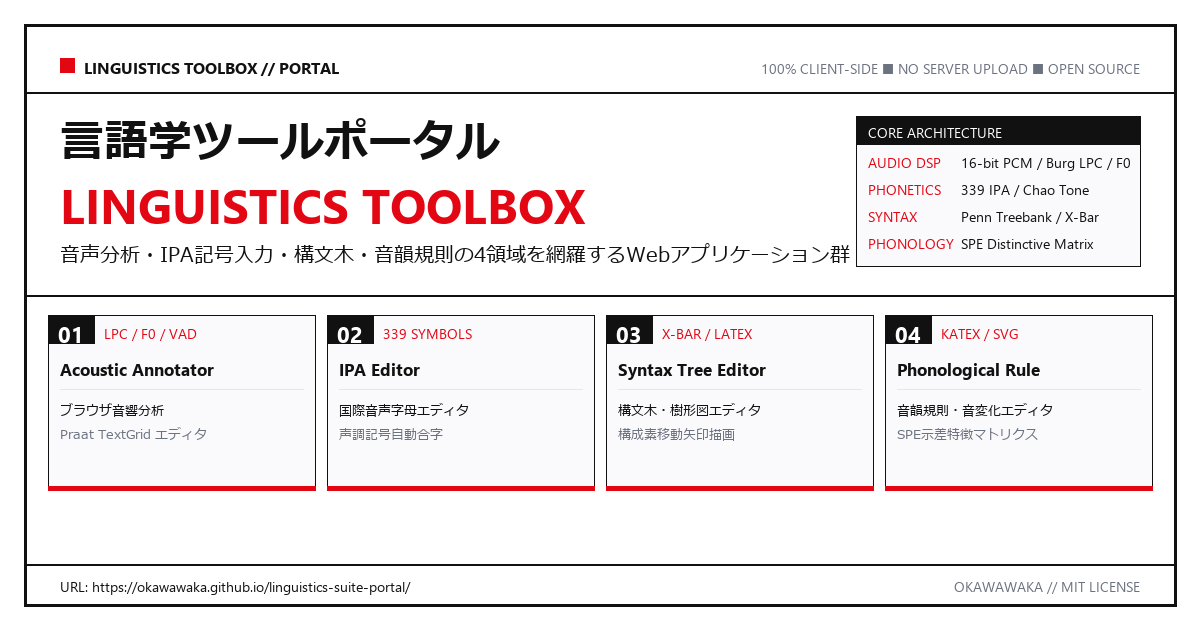
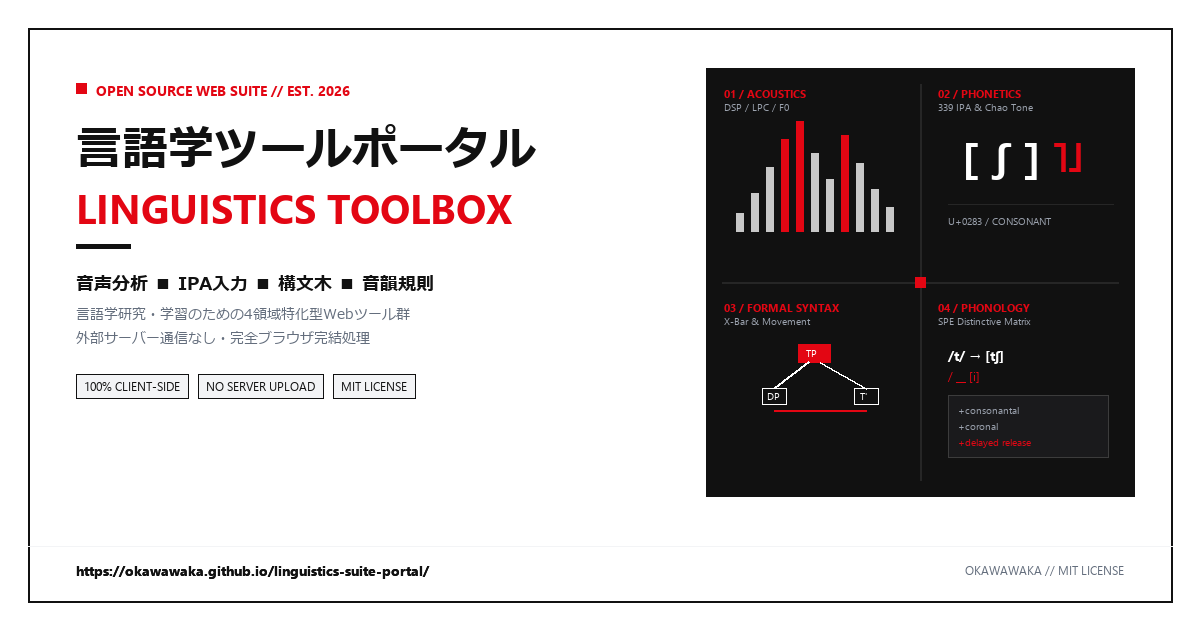
style: refine OGP image layout with golden ratio typography and 4-quadrant emblem

diff --git a/generate_ogp.py b/generate_ogp.py
@@ -1,171 +1,197 @@
 import os
+import math
 from PIL import Image, ImageDraw, ImageFont
 
-# Canvas dimensions
+# ==============================================================================
+# LINGUISTICS TOOLBOX — REFINED OGP POSTER GENERATOR
+# Swiss Typographic Style / Golden Ratio Balance / 1200 x 630 px
+# ==============================================================================
+
 WIDTH = 1200
 HEIGHT = 630
 
-# Colors (Swiss Style Palette)
-BG_COLOR = (255, 255, 255)
-TEXT_PRIMARY = (17, 17, 17)        # #111111
-TEXT_MUTED = (107, 114, 128)       # #6B7280
-SWISS_RED = (227, 6, 19)          # #E30613
-BORDER_DARK = (17, 17, 17)
-BORDER_LIGHT = (229, 231, 235)     # #E5E7EB
-CARD_BG = (250, 250, 252)
+# Color Palette (Strict Swiss International Style)
+COLOR_BG = (255, 255, 255)
+COLOR_TEXT_MAIN = (17, 17, 17)        # #111111
+COLOR_TEXT_MUTED = (100, 110, 125)    # #646E7D
+COLOR_SWISS_RED = (227, 6, 19)        # #E30613
+COLOR_FRAME = (17, 17, 17)
+COLOR_PLATE_BG = (17, 17, 17)         # Dark quadrant plate
+COLOR_PLATE_LINE = (38, 38, 38)       # #262626
+COLOR_PLATE_MUTED = (156, 163, 175)   # #9CA3AF
+COLOR_WHITE = (255, 255, 255)
+COLOR_LIGHT_GRAY = (243, 244, 246)
 
-# Create image
-img = Image.new("RGB", (WIDTH, HEIGHT), BG_COLOR)
+img = Image.new("RGB", (WIDTH, HEIGHT), COLOR_BG)
 draw = ImageDraw.Draw(img)
 
-# Outer Border (Swiss Poster Frame)
-BORDER_MARGIN = 24
-draw.rectangle(
-    [BORDER_MARGIN, BORDER_MARGIN, WIDTH - BORDER_MARGIN, HEIGHT - BORDER_MARGIN],
-    outline=BORDER_DARK,
-    width=3
-)
+# Outer Architectural Border
+MARGIN = 28
+draw.rectangle([MARGIN, MARGIN, WIDTH - MARGIN, HEIGHT - MARGIN], outline=COLOR_FRAME, width=2)
 
-# Load Fonts
+# Load System Fonts
 FONT_DIR = "C:/Windows/Fonts"
-font_title_en = ImageFont.truetype(os.path.join(FONT_DIR, "segoeuib.ttf"), 48)
-font_title_jp = ImageFont.truetype(os.path.join(FONT_DIR, "meiryob.ttc"), 44)
-font_subtitle = ImageFont.truetype(os.path.join(FONT_DIR, "meiryo.ttc"), 20)
-font_mono_bold = ImageFont.truetype(os.path.join(FONT_DIR, "segoeuib.ttf"), 16)
-font_mono_small = ImageFont.truetype(os.path.join(FONT_DIR, "segoeui.ttf"), 14)
-font_card_num = ImageFont.truetype(os.path.join(FONT_DIR, "segoeuib.ttf"), 22)
-font_card_title = ImageFont.truetype(os.path.join(FONT_DIR, "segoeuib.ttf"), 17)
-font_card_desc = ImageFont.truetype(os.path.join(FONT_DIR, "meiryo.ttc"), 13)
+font_jp_title = ImageFont.truetype(os.path.join(FONT_DIR, "meiryob.ttc"), 46)
+font_en_title = ImageFont.truetype(os.path.join(FONT_DIR, "segoeuib.ttf"), 40)
+font_catch = ImageFont.truetype(os.path.join(FONT_DIR, "meiryob.ttc"), 18)
+font_desc = ImageFont.truetype(os.path.join(FONT_DIR, "meiryo.ttc"), 14)
+font_mono_bold = ImageFont.truetype(os.path.join(FONT_DIR, "segoeuib.ttf"), 14)
+font_mono_sub = ImageFont.truetype(os.path.join(FONT_DIR, "segoeui.ttf"), 12)
+font_quad_symbol = ImageFont.truetype(os.path.join(FONT_DIR, "segoeuib.ttf"), 40)
+font_quad_ipa = ImageFont.truetype(os.path.join(FONT_DIR, "meiryob.ttc"), 38)
+font_quad_tag = ImageFont.truetype(os.path.join(FONT_DIR, "segoeuib.ttf"), 11)
+font_quad_desc = ImageFont.truetype(os.path.join(FONT_DIR, "segoeui.ttf"), 10)
 
-# 1. Header Band
-HEADER_Y = BORDER_MARGIN + 32
-# Red square accent
-draw.rectangle([BORDER_MARGIN + 36, HEADER_Y + 2, BORDER_MARGIN + 36 + 14, HEADER_Y + 16], fill=SWISS_RED)
-draw.text((BORDER_MARGIN + 60, HEADER_Y), "LINGUISTICS TOOLBOX // PORTAL", font=font_mono_bold, fill=TEXT_PRIMARY)
+# ==============================================================================
+# LEFT COLUMN: BOLD SWISS TYPOGRAPHY (Clean Hierarchy & Generous Whitespace)
+# ==============================================================================
+LEFT_X = MARGIN + 48
+CONTENT_Y = MARGIN + 52
 
-header_right_text = "100% CLIENT-SIDE ■ NO SERVER UPLOAD ■ OPEN SOURCE"
-bbox_r = font_mono_small.getbbox(header_right_text)
-w_r = bbox_r[2] - bbox_r[0]
-draw.text((WIDTH - BORDER_MARGIN - 36 - w_r, HEADER_Y + 2), header_right_text, font=font_mono_small, fill=TEXT_MUTED)
+# 1. Top Metadata Overline
+draw.rectangle([LEFT_X, CONTENT_Y + 3, LEFT_X + 10, CONTENT_Y + 13], fill=COLOR_SWISS_RED)
+draw.text((LEFT_X + 20, CONTENT_Y), "OPEN SOURCE WEB SUITE // EST. 2026", font=font_mono_bold, fill=COLOR_SWISS_RED)
 
-# Header separator line
-draw.line([(BORDER_MARGIN, HEADER_Y + 36), (WIDTH - BORDER_MARGIN, HEADER_Y + 36)], fill=BORDER_DARK, width=2)
+# 2. Main Title Group
+TITLE_Y = CONTENT_Y + 36
+draw.text((LEFT_X, TITLE_Y), "言語学ツールポータル", font=font_jp_title, fill=COLOR_TEXT_MAIN)
+draw.text((LEFT_X, TITLE_Y + 64), "LINGUISTICS TOOLBOX", font=font_en_title, fill=COLOR_SWISS_RED)
 
-# 2. Main Title Section
-MAIN_Y = HEADER_Y + 54
+# Accent Bar
+draw.rectangle([LEFT_X, TITLE_Y + 128, LEFT_X + 54, TITLE_Y + 132], fill=COLOR_TEXT_MAIN)
 
-# Japanese Main Title
-draw.text((BORDER_MARGIN + 36, MAIN_Y), "言語学ツールポータル", font=font_title_jp, fill=TEXT_PRIMARY)
+# 3. Core Narrative & Bullet Feature Summary
+SUMMARY_Y = TITLE_Y + 154
+draw.text((LEFT_X, SUMMARY_Y), "音声分析 ■ IPA入力 ■ 構文木 ■ 音韻規則", font=font_catch, fill=COLOR_TEXT_MAIN)
+draw.text((LEFT_X, SUMMARY_Y + 34), "言語学研究・学習のための4領域特化型Webツール群", font=font_desc, fill=COLOR_TEXT_MUTED)
+draw.text((LEFT_X, SUMMARY_Y + 58), "外部サーバー通信なし・完全ブラウザ完結処理", font=font_desc, fill=COLOR_TEXT_MUTED)
 
-# English Brand Subtitle
-draw.text((BORDER_MARGIN + 36, MAIN_Y + 62), "LINGUISTICS TOOLBOX", font=font_title_en, fill=SWISS_RED)
+# 4. Feature Badges (Geometric Tag Strips)
+BADGES_Y = SUMMARY_Y + 104
+badges = ["100% CLIENT-SIDE", "NO SERVER UPLOAD", "MIT LICENSE"]
+cur_bx = LEFT_X
+for b in badges:
+    bbox = font_mono_sub.getbbox(b)
+    bw = bbox[2] - bbox[0] + 16
+    bh = 24
+    draw.rectangle([cur_bx, BADGES_Y, cur_bx + bw, BADGES_Y + bh], fill=COLOR_LIGHT_GRAY, outline=COLOR_TEXT_MAIN, width=1)
+    draw.text((cur_bx + 8, BADGES_Y + 4), b, font=font_mono_sub, fill=COLOR_TEXT_MAIN)
+    cur_bx += bw + 10
 
-# Tagline
-draw.text((BORDER_MARGIN + 36, MAIN_Y + 130), "音声分析・IPA記号入力・構文木・音韻規則の4領域を網羅するWebアプリケーション群", font=font_subtitle, fill=TEXT_PRIMARY)
+# 5. Bottom URL readout
+BOTTOM_Y = HEIGHT - MARGIN - 42
+draw.line([(MARGIN, BOTTOM_Y - 14), (WIDTH - MARGIN, BOTTOM_Y - 14)], fill=COLOR_LIGHT_GRAY, width=1)
+draw.text((LEFT_X, BOTTOM_Y), "https://okawawaka.github.io/linguistics-suite-portal/", font=font_mono_bold, fill=COLOR_TEXT_MAIN)
 
-# Decorative Swiss coordinate / specs box on right
-SPEC_BOX_X = WIDTH - BORDER_MARGIN - 320
-SPEC_BOX_Y = MAIN_Y + 6
-SPEC_BOX_W = 284
-SPEC_BOX_H = 150
-draw.rectangle([SPEC_BOX_X, SPEC_BOX_Y, SPEC_BOX_X + SPEC_BOX_W, SPEC_BOX_Y + SPEC_BOX_H], fill=CARD_BG, outline=BORDER_DARK, width=1)
-draw.rectangle([SPEC_BOX_X, SPEC_BOX_Y, SPEC_BOX_X + SPEC_BOX_W, SPEC_BOX_Y + 28], fill=BORDER_DARK)
-draw.text((SPEC_BOX_X + 12, SPEC_BOX_Y + 6), "CORE ARCHITECTURE", font=font_mono_small, fill=(255, 255, 255))
+# ==============================================================================
+# RIGHT COLUMN: 4-QUADRANT MONUMENTAL EMBLEM PLATE (420 x 420 px)
+# ==============================================================================
+PLATE_W = 428
+PLATE_H = 428
+PLATE_X = WIDTH - MARGIN - PLATE_W - 38
+PLATE_Y = MARGIN + 40
 
-specs = [
-    ("AUDIO DSP", "16-bit PCM / Burg LPC / F0"),
-    ("PHONETICS", "339 IPA / Chao Tone"),
-    ("SYNTAX", "Penn Treebank / X-Bar"),
-    ("PHONOLOGY", "SPE Distinctive Matrix")
-]
-for i, (k, v) in enumerate(specs):
-    sy = SPEC_BOX_Y + 36 + i * 27
-    draw.text((SPEC_BOX_X + 12, sy), k, font=font_mono_small, fill=SWISS_RED)
-    draw.text((SPEC_BOX_X + 105, sy), v, font=font_mono_small, fill=TEXT_PRIMARY)
+# Solid Dark Geometric Plate
+draw.rectangle([PLATE_X, PLATE_Y, PLATE_X + PLATE_W, PLATE_Y + PLATE_H], fill=COLOR_PLATE_BG, outline=COLOR_FRAME, width=2)
 
-# Separator before cards
-CARDS_TOP_Y = MAIN_Y + 185
-draw.line([(BORDER_MARGIN, CARDS_TOP_Y), (WIDTH - BORDER_MARGIN, CARDS_TOP_Y)], fill=BORDER_DARK, width=2)
+# Quadrant Divider Crosshair
+MID_X = PLATE_X + PLATE_W // 2
+MID_Y = PLATE_Y + PLATE_H // 2
+draw.line([(MID_X, PLATE_Y + 16), (MID_X, PLATE_Y + PLATE_H - 16)], fill=COLOR_PLATE_LINE, width=2)
+draw.line([(PLATE_X + 16, MID_Y), (PLATE_X + PLATE_W - 16, MID_Y)], fill=COLOR_PLATE_LINE, width=2)
 
-# 3. 4 Tool Cards Grid
-CARD_GAP = 12
-CARDS_PAD_X = BORDER_MARGIN + 24
-AVAILABLE_WIDTH = (WIDTH - BORDER_MARGIN * 2) - 48
-CARD_W = (AVAILABLE_WIDTH - CARD_GAP * 3) // 4
-CARD_H = 175
-CARD_Y = CARDS_TOP_Y + 20
+# Central Registration Red Square
+draw.rectangle([MID_X - 5, MID_Y - 5, MID_X + 5, MID_Y + 5], fill=COLOR_SWISS_RED)
 
-cards_data = [
-    {
-        "num": "01",
-        "title": "Acoustic Annotator",
-        "desc1": "ブラウザ音響分析",
-        "desc2": "Praat TextGrid エディタ",
-        "meta": "LPC / F0 / VAD"
-    },
-    {
-        "num": "02",
-        "title": "IPA Editor",
-        "desc1": "国際音声字母エディタ",
-        "desc2": "声調記号自動合字",
-        "meta": "339 SYMBOLS"
-    },
-    {
-        "num": "03",
-        "title": "Syntax Tree Editor",
-        "desc1": "構文木・樹形図エディタ",
-        "desc2": "構成素移動矢印描画",
-        "meta": "X-BAR / LATEX"
-    },
-    {
-        "num": "04",
-        "title": "Phonological Rule",
-        "desc1": "音韻規則・音変化エディタ",
-        "desc2": "SPE示差特徴マトリクス",
-        "meta": "KATEX / SVG"
-    }
-]
+# --- QUADRANT 1 (Top-Left): Acoustic Waveform & LPC Spectrum ---
+Q1_X = PLATE_X + 18
+Q1_Y = PLATE_Y + 18
+draw.text((Q1_X, Q1_Y), "01 / ACOUSTICS", font=font_quad_tag, fill=COLOR_SWISS_RED)
+draw.text((Q1_X, Q1_Y + 14), "DSP / LPC / F0", font=font_quad_desc, fill=COLOR_PLATE_MUTED)
 
-for i, card in enumerate(cards_data):
-    cx = CARDS_PAD_X + i * (CARD_W + CARD_GAP)
-    cy = CARD_Y
-    # Card background and border
-    draw.rectangle([cx, cy, cx + CARD_W, cy + CARD_H], fill=CARD_BG, outline=BORDER_DARK, width=1)
-    
-    # Top red index tab
-    draw.rectangle([cx, cy, cx + 46, cy + 28], fill=BORDER_DARK)
-    draw.text((cx + 10, cy + 4), card["num"], font=font_card_num, fill=(255, 255, 255))
-    
-    # Meta pill
-    draw.text((cx + 56, cy + 8), card["meta"], font=font_mono_small, fill=SWISS_RED)
-    
-    # Card Title
-    draw.text((cx + 12, cy + 42), card["title"], font=font_card_title, fill=TEXT_PRIMARY)
-    
-    # Divider
-    draw.line([(cx + 12, cy + 74), (cx + CARD_W - 12, cy + 74)], fill=BORDER_LIGHT, width=1)
-    
-    # Card Desc
-    draw.text((cx + 12, cy + 86), card["desc1"], font=font_card_desc, fill=TEXT_PRIMARY)
-    draw.text((cx + 12, cy + 110), card["desc2"], font=font_card_desc, fill=TEXT_MUTED)
-    
-    # Bottom accent line
-    draw.rectangle([cx, cy + CARD_H - 4, cx + CARD_W, cy + CARD_H], fill=SWISS_RED)
+# Sound wave bars in Swiss Red
+wave_x = Q1_X + 12
+wave_baseline = Q1_Y + 145
+wave_heights = [18, 38, 64, 92, 110, 78, 52, 96, 68, 42, 24]
+for j, wh in enumerate(wave_heights):
+    bx = wave_x + j * 15
+    by1 = wave_baseline - wh
+    by2 = wave_baseline
+    bar_color = COLOR_SWISS_RED if j in [3, 4, 7] else (200, 200, 200)
+    draw.rectangle([bx, by1, bx + 7, by2], fill=bar_color)
 
-# 4. Footer Bar
-FOOTER_Y = HEIGHT - BORDER_MARGIN - 42
-draw.line([(BORDER_MARGIN, FOOTER_Y), (WIDTH - BORDER_MARGIN, FOOTER_Y)], fill=BORDER_DARK, width=2)
+# --- QUADRANT 2 (Top-Right): IPA Typography & Chao Tone Ligature ---
+Q2_X = MID_X + 18
+Q2_Y = PLATE_Y + 18
+draw.text((Q2_X, Q2_Y), "02 / PHONETICS", font=font_quad_tag, fill=COLOR_SWISS_RED)
+draw.text((Q2_X, Q2_Y + 14), "339 IPA & Chao Tone", font=font_quad_desc, fill=COLOR_PLATE_MUTED)
 
-FOOTER_CONTENT_Y = FOOTER_Y + 12
-draw.text((BORDER_MARGIN + 36, FOOTER_CONTENT_Y), "URL: https://okawawaka.github.io/linguistics-suite-portal/", font=font_mono_small, fill=TEXT_PRIMARY)
+# IPA Phonetic Symbol Art [ ʃ ] + Tone Letter
+draw.text((Q2_X + 24, Q2_Y + 45), "[ ʃ ]", font=font_quad_ipa, fill=COLOR_WHITE)
+draw.text((Q2_X + 115, Q2_Y + 45), "˥˩", font=font_quad_ipa, fill=COLOR_SWISS_RED)
+# Sub-spec line
+draw.line([(Q2_X + 10, Q2_Y + 118), (Q2_X + 175, Q2_Y + 118)], fill=COLOR_PLATE_LINE, width=1)
+draw.text((Q2_X + 10, Q2_Y + 128), "U+0283 / CONSONANT", font=font_quad_desc, fill=COLOR_PLATE_MUTED)
 
-copy_text = "OKAWAWAKA // MIT LICENSE"
-bbox_c = font_mono_small.getbbox(copy_text)
-w_c = bbox_c[2] - bbox_c[0]
-draw.text((WIDTH - BORDER_MARGIN - 36 - w_c, FOOTER_CONTENT_Y), copy_text, font=font_mono_small, fill=TEXT_MUTED)
+# --- QUADRANT 3 (Bottom-Left): Syntax Tree Diagram ---
+Q3_X = PLATE_X + 18
+Q3_Y = MID_Y + 18
+draw.text((Q3_X, Q3_Y), "03 / FORMAL SYNTAX", font=font_quad_tag, fill=COLOR_SWISS_RED)
+draw.text((Q3_X, Q3_Y + 14), "X-Bar & Movement", font=font_quad_desc, fill=COLOR_PLATE_MUTED)
 
-# Ensure assets directory exists
-os.makedirs("assets", exist_ok=True)
+# Mini Tree Diagram Art
+NODE_ROOT_X = Q3_X + 90
+NODE_ROOT_Y = Q3_Y + 44
+# Root TP box
+draw.rectangle([NODE_ROOT_X - 16, NODE_ROOT_Y, NODE_ROOT_X + 16, NODE_ROOT_Y + 18], fill=COLOR_SWISS_RED)
+draw.text((NODE_ROOT_X - 8, NODE_ROOT_Y + 2), "TP", font=font_quad_desc, fill=COLOR_WHITE)
+
+# Left DP branch
+DP_X = NODE_ROOT_X - 52
+DP_Y = NODE_ROOT_Y + 44
+draw.line([(NODE_ROOT_X - 6, NODE_ROOT_Y + 18), (DP_X + 12, DP_Y)], fill=COLOR_WHITE, width=2)
+draw.rectangle([DP_X, DP_Y, DP_X + 24, DP_Y + 16], outline=COLOR_WHITE, width=1)
+draw.text((DP_X + 5, DP_Y + 1), "DP", font=font_quad_desc, fill=COLOR_WHITE)
+
+# Right T' branch
+T_X = NODE_ROOT_X + 40
+T_Y = NODE_ROOT_Y + 44
+draw.line([(NODE_ROOT_X + 6, NODE_ROOT_Y + 18), (T_X + 12, T_Y)], fill=COLOR_WHITE, width=2)
+draw.rectangle([T_X, T_Y, T_X + 24, T_Y + 16], outline=COLOR_WHITE, width=1)
+draw.text((T_X + 6, T_Y + 1), "T'", font=font_quad_desc, fill=COLOR_WHITE)
+
+# Movement dash arrow below
+draw.line([(DP_X + 12, DP_Y + 22), (T_X + 12, T_Y + 22)], fill=COLOR_SWISS_RED, width=2)
+
+# --- QUADRANT 4 (Bottom-Right): Phonological Rule & Distinctive Features ---
+Q4_X = MID_X + 18
+Q4_Y = MID_Y + 18
+draw.text((Q4_X, Q4_Y), "04 / PHONOLOGY", font=font_quad_tag, fill=COLOR_SWISS_RED)
+draw.text((Q4_X, Q4_Y + 14), "SPE Distinctive Matrix", font=font_quad_desc, fill=COLOR_PLATE_MUTED)
+
+# Phonological Rule formula: /t/ → [tʃ]
+draw.text((Q4_X + 10, Q4_Y + 45), "/t/ → [tʃ]", font=font_mono_bold, fill=COLOR_WHITE)
+draw.text((Q4_X + 10, Q4_Y + 68), "/ __ [i]", font=font_mono_sub, fill=COLOR_SWISS_RED)
+
+# Feature matrix brackets
+MAT_X = Q4_X + 10
+MAT_Y = Q4_Y + 95
+draw.rectangle([MAT_X, MAT_Y, MAT_X + 160, MAT_Y + 62], outline=(60, 60, 60), fill=(26, 26, 28), width=1)
+draw.text((MAT_X + 10, MAT_Y + 8), "+consonantal", font=font_quad_desc, fill=COLOR_PLATE_MUTED)
+draw.text((MAT_X + 10, MAT_Y + 24), "+coronal", font=font_quad_desc, fill=COLOR_PLATE_MUTED)
+draw.text((MAT_X + 10, MAT_Y + 40), "+delayed release", font=font_quad_desc, fill=COLOR_SWISS_RED)
+
+# 5. Bottom URL readout & Credits
+BOTTOM_Y = HEIGHT - MARGIN - 42
+draw.line([(MARGIN, BOTTOM_Y - 14), (WIDTH - MARGIN, BOTTOM_Y - 14)], fill=COLOR_LIGHT_GRAY, width=1)
+draw.text((LEFT_X, BOTTOM_Y), "https://okawawaka.github.io/linguistics-suite-portal/", font=font_mono_bold, fill=COLOR_TEXT_MAIN)
+
+credit_text = "OKAWAWAKA // MIT LICENSE"
+bbox_cr = font_mono_sub.getbbox(credit_text)
+w_cr = bbox_cr[2] - bbox_cr[0]
+draw.text((WIDTH - MARGIN - 48 - w_cr, BOTTOM_Y + 2), credit_text, font=font_mono_sub, fill=COLOR_TEXT_MUTED)
+
+# Save high-quality output
 output_path = "assets/ogp.png"
 img.save(output_path, "PNG", quality=95)
-print(f"Generated OGP image successfully at: {output_path} ({os.path.getsize(output_path)} bytes)")
+print(f"Refined Swiss OGP image successfully saved at: {output_path} ({os.path.getsize(output_path)} bytes)")
